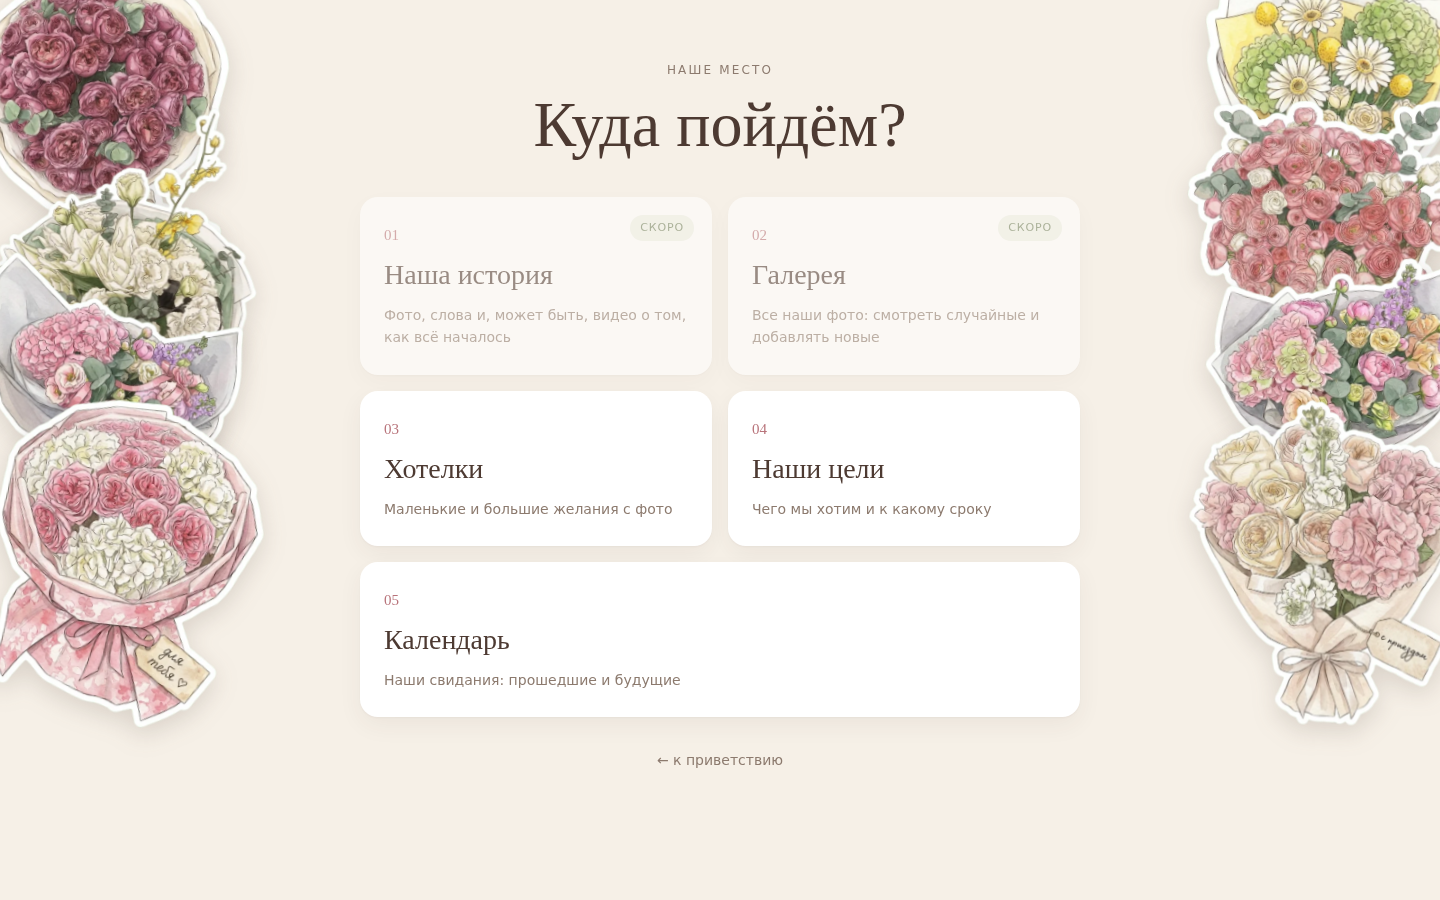
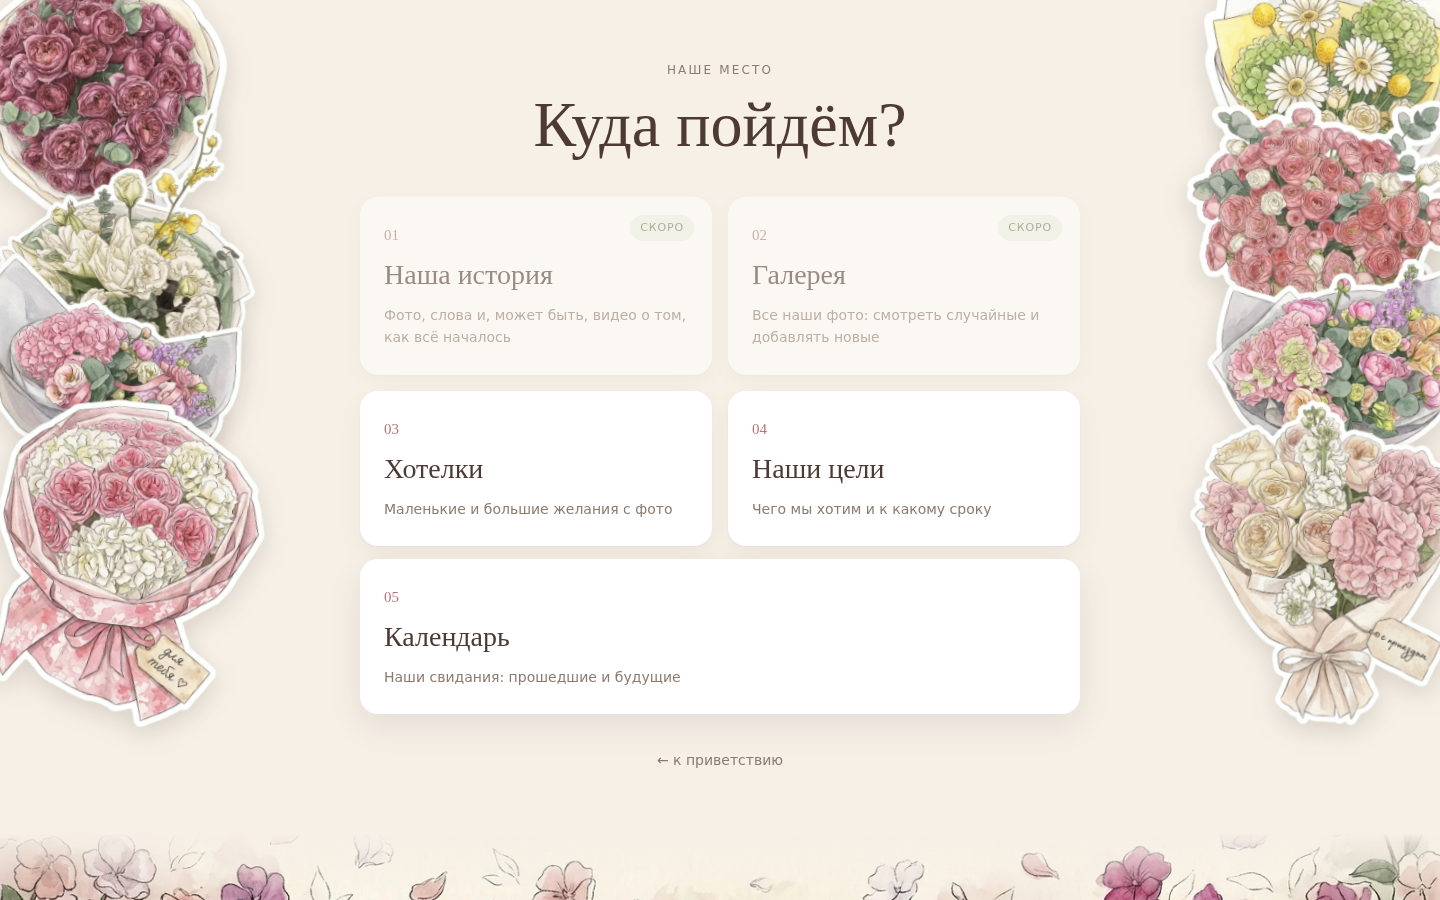
Клумба на всех экранах, а не только на приветствии
Внизу списков было пусто. Теперь клумба есть везде: на приветствии она выше и
приклеена к низу окна, на остальных экранах ниже и стоит в конце страницы —
иначе длинный список уезжал бы под цветы. Подпись к снимку осталась только
на приветствии.

Claude-Session: https://claude.ai/code/session_014bX3qYy35dvS7ewg6Hjr1n

diff --git a/css/style.css b/css/style.css
@@ -13,6 +13,8 @@
   --radius: 18px;
   --shadow: 0 1px 2px rgba(74, 52, 56, .04), 0 8px 24px rgba(74, 52, 56, .06);
   --side-w: clamp(0px, calc((100vw - 760px) / 2), 280px);
+  --garden-h: clamp(150px, 26vh, 260px);        /* приветствие */
+  --garden-h-inner: clamp(110px, 17vh, 170px);  /* экраны со списками */
   --serif: 'Cormorant Garamond', Georgia, serif;
   --sans: 'Manrope', system-ui, -apple-system, sans-serif;
 }
@@ -20,6 +22,7 @@
 * { box-sizing: border-box; }
 html, body { margin: 0; }
 body {
+  position: relative;      /* точка отсчёта для клумбы в конце страницы */
   min-height: 100vh;
   background: var(--bg);
   color: var(--ink);
@@ -80,7 +83,7 @@ body:not(.is-welcome) .side--right .sticker { right: -8%; }
   z-index: 2;
   max-width: 760px;
   margin: 0 auto;
-  padding: 32px 20px 80px;
+  padding: 32px 20px calc(var(--garden-h-inner) + 48px);
   min-height: 100vh;
   animation: fade .5s ease both;
 }
@@ -119,7 +122,7 @@ h2 { font-size: 36px; }
 /* ---------- Экран 1: приветствие ---------- */
 .welcome {
   min-height: calc(100vh - 112px);
-  padding-bottom: calc(clamp(150px, 26vh, 260px) + 16px);
+  padding-bottom: calc(var(--garden-h) + 16px);
   display: flex; flex-direction: column; align-items: center; justify-content: center;
   text-align: center; gap: 20px;
 }
@@ -135,17 +138,25 @@ h2 { font-size: 36px; }
 .who { display: flex; gap: 12px; flex-wrap: wrap; justify-content: center; margin-top: 12px; }
 .linkish { background: none; border: 0; color: var(--ink-soft); text-decoration: underline; cursor: pointer; font-size: 13px; }
 
-/* ---------- Цветочная клумба внизу приветствия ---------- */
+/* ---------- Цветочная клумба внизу экрана ---------- */
 .garden {
   position: fixed; left: 0; right: 0; bottom: 0; z-index: 0;
-  height: clamp(150px, 26vh, 260px);
+  height: var(--garden-h);
   background: url('../assets/photos/garden-band.webp') no-repeat center 40% / cover;
-  opacity: 0; transition: opacity .6s ease;
+  transition: height .4s ease;
   -webkit-mask-image: linear-gradient(to bottom, transparent, #000 40%);
   mask-image: linear-gradient(to bottom, transparent, #000 40%);
   pointer-events: none;
 }
-body.is-welcome .garden { opacity: 1; }
+/* На экранах со списками клумба ниже и стоит в конце страницы, а не поверх неё:
+   иначе длинный список уезжал бы под цветы. На коротких страницах она всё равно
+   оказывается внизу экрана, потому что .app занимает не меньше высоты окна. */
+body:not(.is-welcome) .garden {
+  position: absolute;
+  height: var(--garden-h-inner);
+}
+/* Подпись к снимку уместна только там, где клумба — главный образ */
+body:not(.is-welcome) .garden__note { display: none; }
 .garden__note {
   position: absolute; right: calc(var(--side-w) + 22px); bottom: 14px;
   font-size: 11px; letter-spacing: .1em; text-transform: uppercase;
@@ -287,9 +298,9 @@ body.is-welcome .garden { opacity: 1; }
 
 /* ---------- Невысокие экраны: клумба ниже, чтобы кнопки не тонули в цветах ---------- */
 @media (max-height: 820px) {
-  .garden { height: clamp(100px, 15vh, 140px); }
+  :root { --garden-h: clamp(100px, 15vh, 140px); --garden-h-inner: clamp(90px, 13vh, 130px); }
   .welcome {
-    padding-bottom: calc(clamp(100px, 15vh, 140px) + 12px);
+    padding-bottom: calc(var(--garden-h) + 12px);
     gap: 14px;
   }
   .welcome__sticker { width: 130px; }
